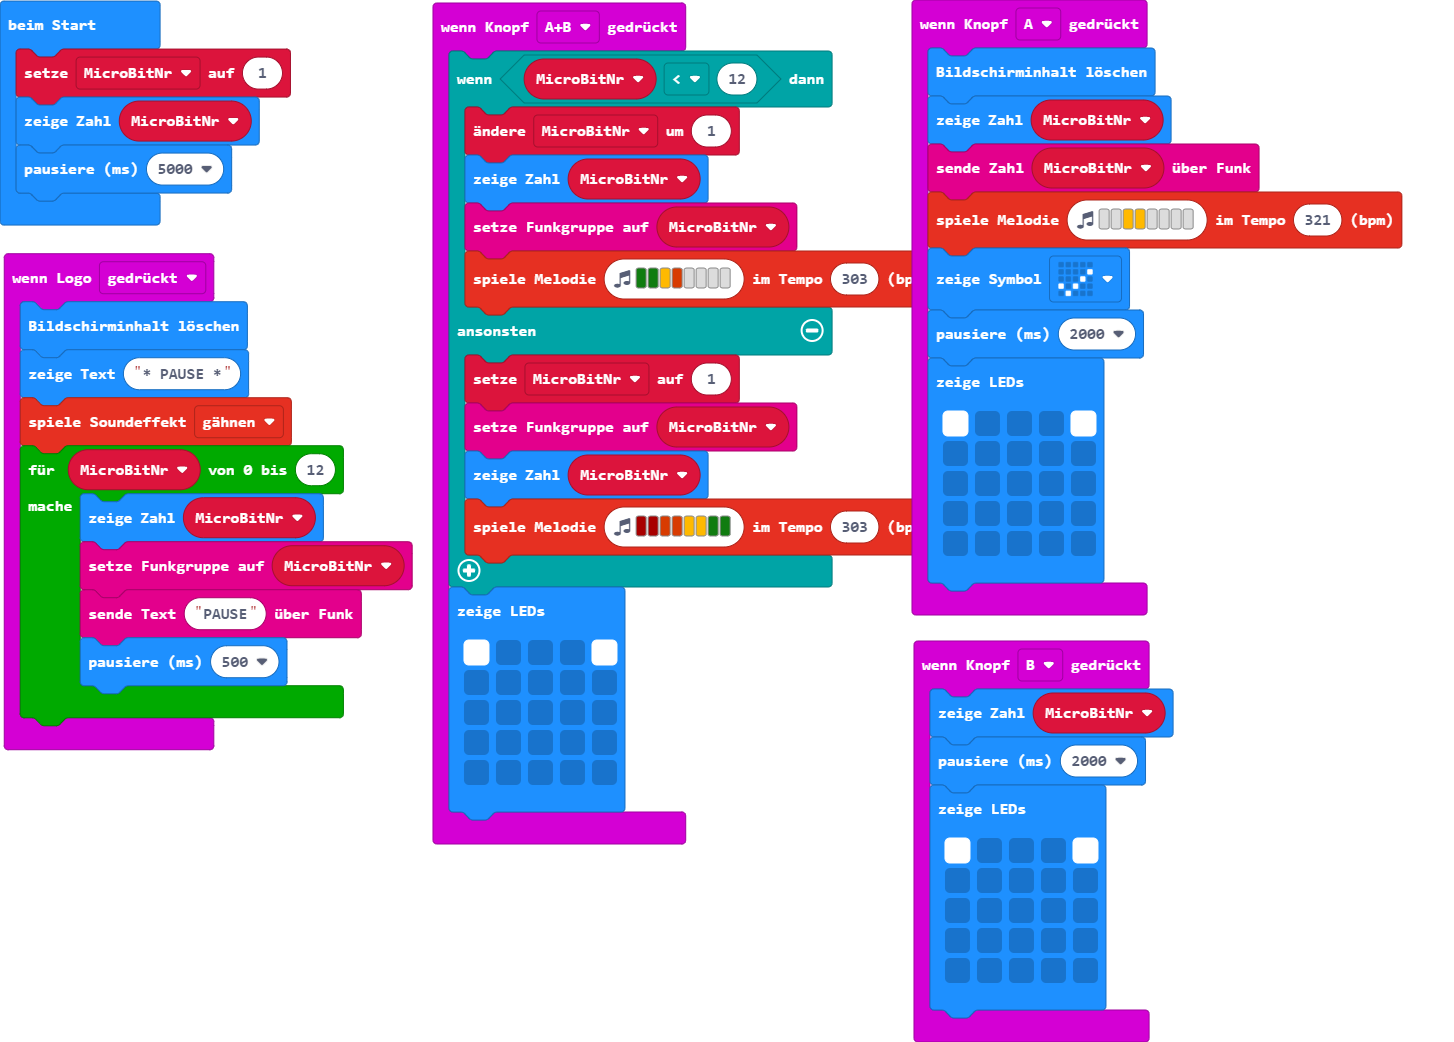
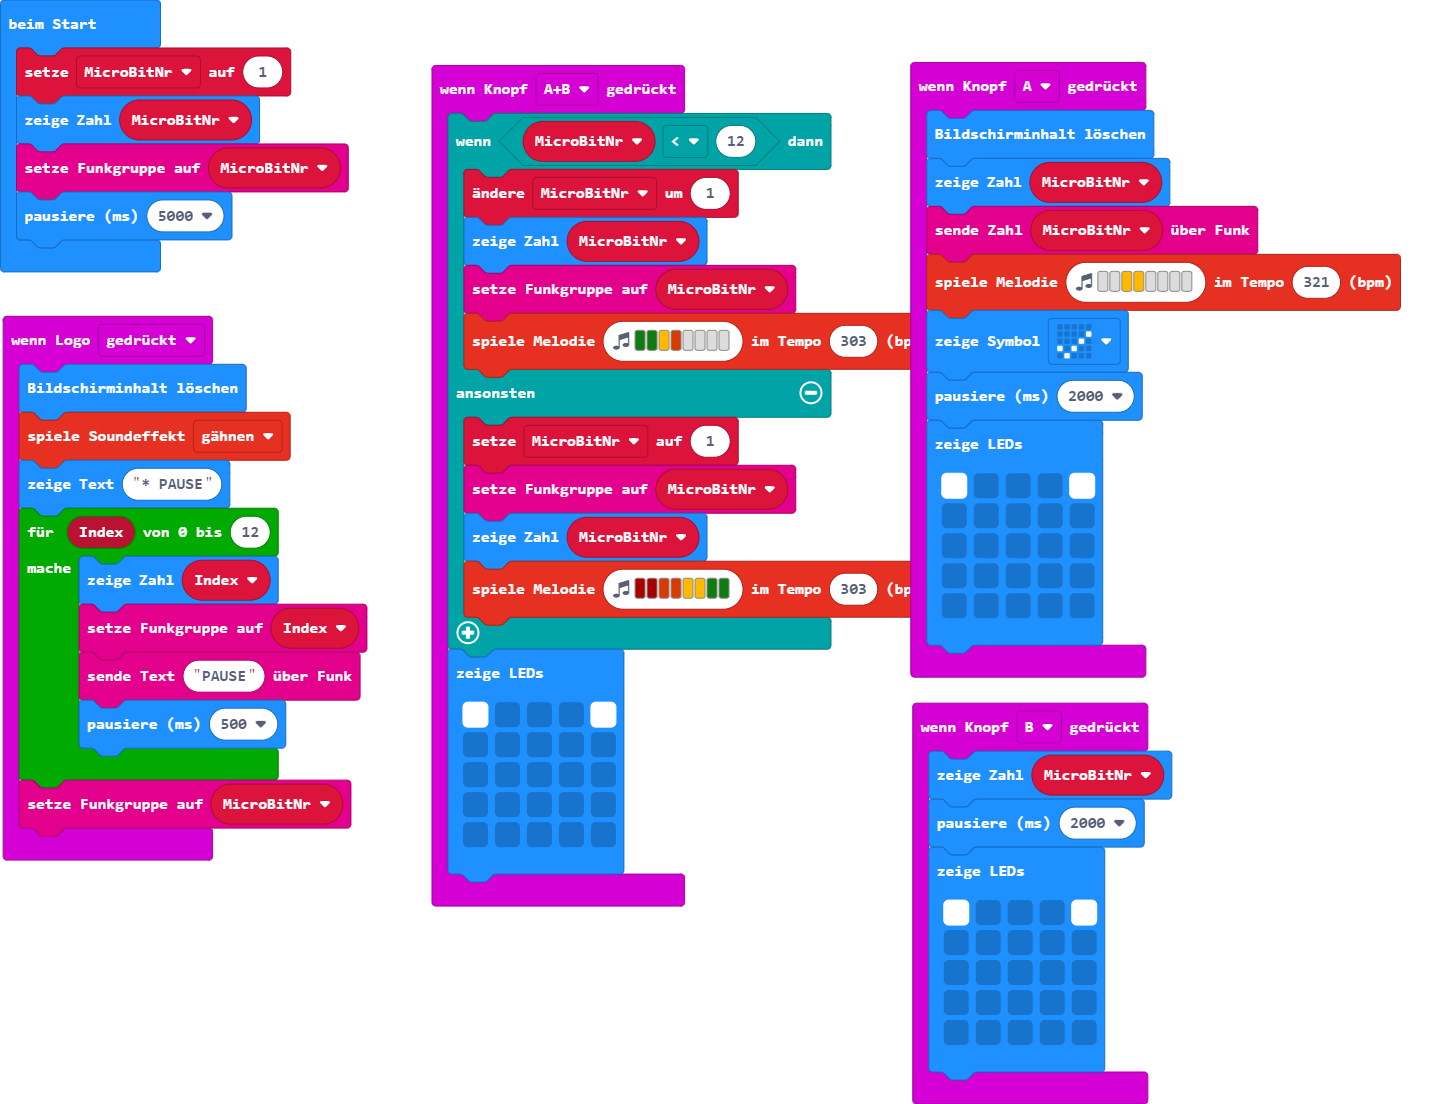
Aktualisiere main.blocks, main.ts

diff --git a/main.ts b/main.ts
@@ -1,13 +1,14 @@
 input.onLogoEvent(TouchButtonEvent.Pressed, function () {
     basic.clearScreen()
-    basic.showString("* PAUSE *")
     soundExpression.yawn.play()
-    for (let MicroBitNr = 0; MicroBitNr <= 12; MicroBitNr++) {
-        basic.showNumber(MicroBitNr)
-        radio.setGroup(MicroBitNr)
+    basic.showString("* PAUSE")
+    for (let Index = 0; Index <= 12; Index++) {
+        basic.showNumber(Index)
+        radio.setGroup(Index)
         radio.sendString("PAUSE")
         basic.pause(500)
     }
+    radio.setGroup(MicroBitNr)
 })
 input.onButtonPressed(Button.A, function () {
     basic.clearScreen()
@@ -58,4 +59,5 @@ input.onButtonPressed(Button.B, function () {
 let MicroBitNr = 0
 MicroBitNr = 1
 basic.showNumber(MicroBitNr)
+radio.setGroup(MicroBitNr)
 basic.pause(5000)
